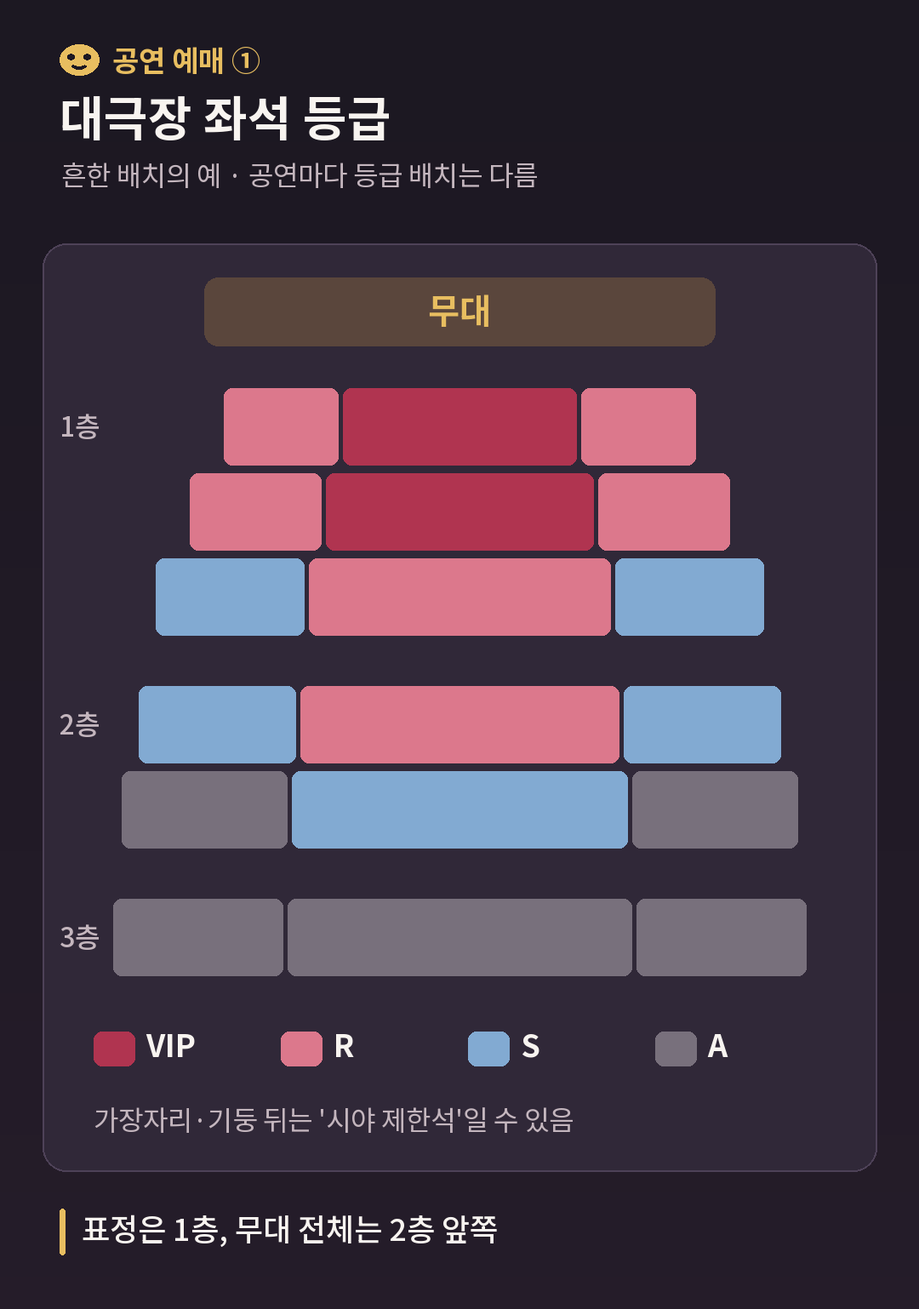
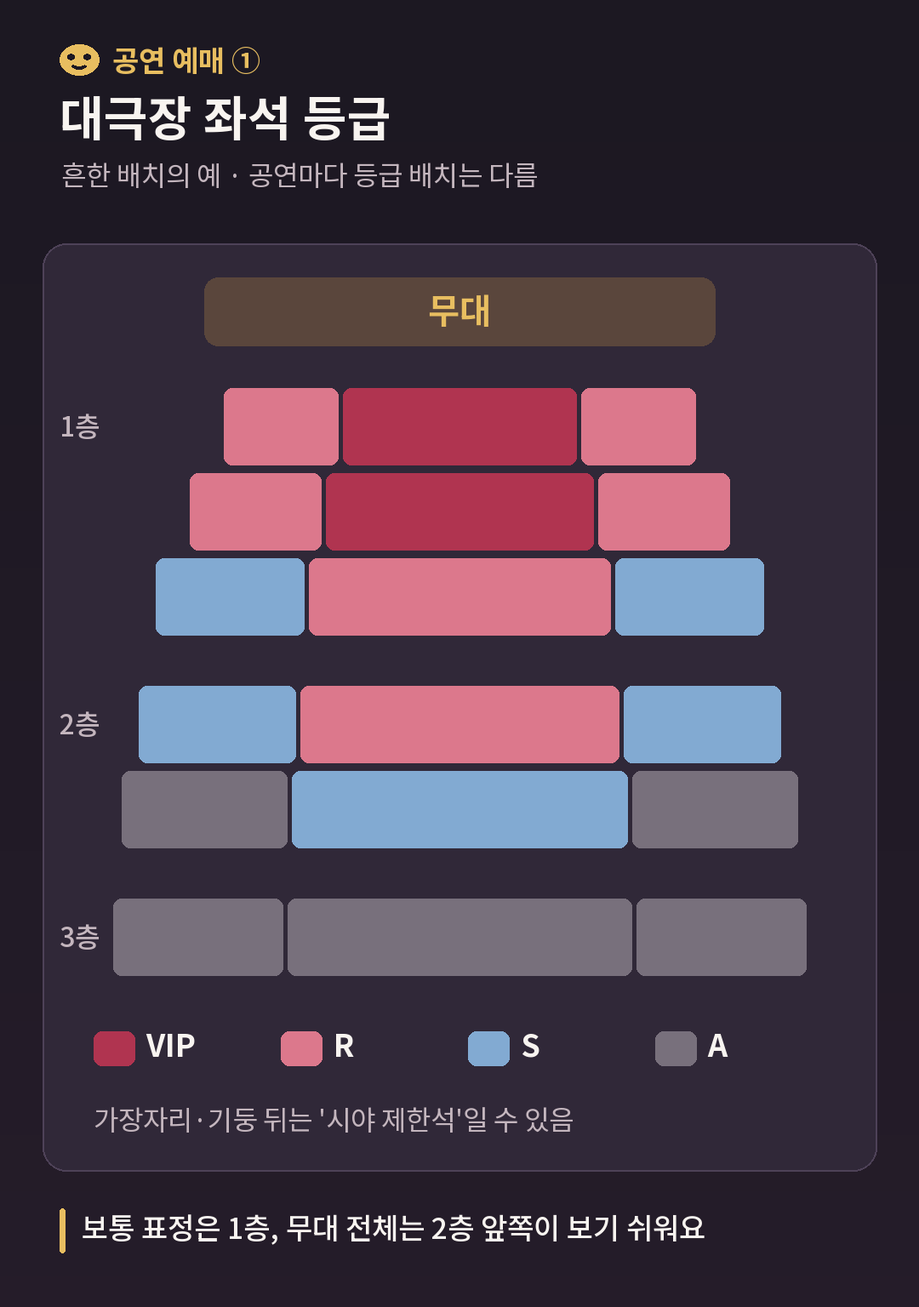
뮤지컬 좌석 글: 타이틀 적용·좌석 고르는 법 보강·검수 반영, 이미지 요청 글자 크기 규칙 기록
- 자리별 시야 단면도(03) 추가, 그림 번호 04~06으로 다시 매김
- 두 차례 외부 검수 반영(취소표 시점, 수수료 단서, 소득공제 조건, 공연법 정의, 좌석 평가 문장)
- 02·03 ChatGPT 인포그래픽 요청(글자 작게)
- ChatGPT 이미지 요청 글자는 작게(제목 44·이름표 30~32·설명 28px 안팎) 규칙 추가

diff --git a/문서/네이버-코딩가이드/20261126_뮤지컬-좌석-예매/index.html b/문서/네이버-코딩가이드/20261126_뮤지컬-좌석-예매/index.html
@@ -6,22 +6,26 @@
 글 제목: 연말 뮤지컬 좌석 고르는 법, 예매부터 취소 수수료까지
 태그: #뮤지컬예매 #뮤지컬좌석 #공연예매 #티켓팅 #취소표 #취소수수료 #연말공연 #뮤지컬 #문화비소득공제 #암표
 검색 설명: 연말 뮤지컬과 공연을 예매할 때 알아 둘 것을 정리했습니다. 대극장 좌석 등급(VIP·R·S·A)과 층별 차이, 선예매와 일반 예매, 취소표가 나오는 때, 관람일이 가까울수록 커지는 취소 수수료, 문화비 소득공제와 암표 처벌까지 담았습니다.
-글자 수: 본문 공백 포함 1,777자 / 공백 제외 1,363자
+글자 수: 본문 공백 포함 3,215자 / 공백 제외 2,465자
 계기: 겨울 대극장 대작 공연 기사(11.26)와 다음 공연 분야 검색어 상위(연말 콘서트·뮤지컬). 사용자가 추천 5개 중 5번을 고름.
 
 [이미지 순서]
 디자인: 어두운 공연장 그라데이션 바탕(#1c1822→#281e2c) · 흰 글자 · 와인(#b03450)·장미(#dc788c)·금빛 조명(#e8be60)·하늘(#82aad2) · 어두운 보라 카드, 머리에 금빛 가면 아이콘 + '공연 예매 ①~③', 아래 한 줄은 금빛 세로 띠 메모. 형식: 세로 좌석 배치 개념도, 가로 다섯 단계 카드, 가로 수수료 막대. 스크립트 scratchpad/tgs/musical.py.
-- 01-타이틀.png (ChatGPT, 1080×1080) — 표지
-- 02-대극장-좌석-등급.png (AI, 세로 1080×1538) — 층·위치에 따라 등급이 나뉘는 흔한 배치(개념도)
-- 03-예매가-열리는-순서.png (AI, 가로 1440×894) — 오픈 공지부터 취소표까지 다섯 단계
-- 04-취소-수수료.png (AI, 가로 1440×1182) — 관람일이 가까울수록 커지는 취소 수수료(한 예매처 예)
-- 05-함께-보면-좋은-글.png (AI 배너, 1600×234)
+- 01-타이틀.png (ChatGPT, 1080×1080) — 표지(글자 약 84%·세로 중심 약 44%라 95%로 줄이고 45px 내려 살짝 키운 흐린 같은 그림 위에 70px로 섞음 → 약 80%·중심 약 48%, 원본 scratchpad/backup/musical-01-original.png)
+- 02-대극장-좌석-등급.png (AI, 세로 1080×1536) — 층·위치에 따라 등급이 나뉘는 흔한 배치(개념도)
+- 03-자리별로-보이는-것.png (AI, 가로 1440×1482) — 옆 단면: 1층 앞(올려다봄)·가운데·뒤(2층 아래, 위쪽 가려짐)·2층 앞(난간) 시선
+- 04-예매가-열리는-순서.png (AI, 가로 1440×894) — 오픈 공지부터 취소표까지 다섯 단계
+- 05-취소-수수료.png (AI, 가로 1440×1222) — 관람일이 가까울수록 커지는 취소 수수료(한 예매처 예)
+- 06-함께-보면-좋은-글.png (AI 배너, 1600×234)
 
 [근거] (2026.11.26 확인)
 - 공연법(국가법령정보센터 현행 원문): 제4조의2 입장권등 부정구매(보안조치를 우회하는 등 공정한 구입 과정을 우회·방해해 재판매 목적으로 구매)·부정판매(판매자 동의 없이 상습 또는 영업으로 산 값보다 비싸게 판매·알선) 금지(전문개정 2026.2.27), 제41조 1년 이하 징역 또는 1천만 원 이하 벌금, 제37조의2 신고 포상금(예산 범위, 대통령령).
 - 취소 수수료: 예스24 티켓 공연 상품 페이지의 일반 취소 규정(예매 후 7일 이내 없음 / 예매 후 8일~관람일 10일 전 장당 4,000원(티켓 금액의 10% 이내) / 관람일 9~7일 전 10% / 6~3일 전 20% / 2일 전~취소 마감 30%, 예매 후 7일 이내라도 관람일 10일 이내면 해당 수수료, 예매수수료는 예매 당일 밤 12시 전 취소 때만 환불). '상품에 따라 다를 수 있다'는 단서도 원문에 있음 — 본문에 '한 예매처의 예'로 씀.
 - 문화비 소득공제: 조세특례제한법 제126조의2(앞선 카드 소득공제 글에서 원문 확인) — 총급여 7천만 원 이하, 도서·공연 등 문화비 공제율 30%. 상품마다 대상이 아닐 수 있음(예스24 상품 페이지에 '문화비 소득공제 제외 상품' 표기가 있는 예).
 - 겨울 대작 공연(오페라의 유령 40주년 등)은 11.26 기사 기준 '~다고 합니다'. 특정 공연장 좌석 수·등급 배치는 공연마다 달라 쓰지 않고, 좌석 등급의 일반적인 경향·취소표가 나오는 때·선예매는 일반 지식으로 '보통·알려져 있다'로 씀.
+- 외부 검수(11.26) 반영: 취소표 시점을 확정하지 않음(미입금 자동 취소 시점·좌석이 풀리는 시간은 예매처마다 다름, 관람 10일 전은 '수수료 구간이 바뀌는 때'), 그림 03 4·5단계 문구, 그림 04에 '장당 4,000원(티켓 금액의 10% 이내)' 단서와 취소 마감 시각 안내, 문화비 소득공제는 카드 등 사용액이 총급여 25% 초과·공제 대상 사업자·30%는 공제율이라는 조건 보완, 공연법 부정구매·부정판매 정의를 조문대로, 좌석 평가 문장 객관화, 선예매 대상은 '공연에 따라', 시야 제한석 범위 확인, 취소 마감 시각 문장 추가. 다르게 한 것: 마지막 수수료 구간은 검수안의 '관람 2~1일 전' 대신 예스24 원문 표현 '관람 2일 전 ~ 취소 마감(일시)'을 살려 '취소 마감 시각'으로 둠. 예스24의 요일별 취소 마감 시각(전날 17시 등)은 원문을 보지 못해 숫자 없이 '공연마다 다르니 확인'으로.
+- 사용자 요청(11.26)으로 '좌석 고르는 법'을 보강: h2 '어디에 앉을까? 자리마다 보이는 것'(1층 앞·가운데·뒤(2층 돌출부 아래)·2층 맨 앞줄 난간·양쪽 끝 블록), h2 '목적별로 고르면 쉽다'(목적별 자리 목록, 어린이 방석·오페라글라스), h3 '예매 전에 시야를 미리 보는 법'(좌석 배치도·같은 작품 시야 후기). 모두 일반적인 경향이라 '~수 있다·편이다·꼽힌다'로 씀. 새 AI 그림 03 자리별 단면도, 뒤 번호 04·05·06으로 다시 매김.
+- 두 번째 외부 검수(11.26) 반영: 1층 앞쪽 '가장 잘 보임' → '가까이에서 볼 수 있음, 너무 가까우면 전체를 보기 어려움', 피트는 '공연장에 따라 객석과 무대 사이에 놓이기도 함', 1층 가운데 '실패가 적다' 삭제, 통로 쪽은 '드나들기 편함'만(시야는 무대 가운데와의 각도로 비교), 아이와 함께는 '통로 쪽·앞사람에게 가리지 않는 자리', 그림 04의 4번 카드 제목이 넘쳐 '미입금 취소'로 줄임.
 - 함께 보면 좋은 글: 2026 서울윈터페스티벌(네이버 코딩가이드 · 여행·취미·문화 · 2026.11.26), 연말정산 미리보기 12월 18일 전에 볼 세 가지(네이버 코딩가이드 · 경제·투자 · 2026.11.24).
 -->
 
@@ -44,35 +48,78 @@
 
 <p style="font-size:16px;color:#e60000;font-weight:bold;">[[ 이미지: 대극장 좌석 등급 (02-대극장-좌석-등급.png) ]]</p>
 
-<p style="font-size:16px;">다만 가격이 곧 보기 좋은 자리는 아닙니다.<br>1층 맨 앞줄은 무대를 올려다봐야 해서 오히려 불편하다는 사람도 많습니다.</p>
-<p style="font-size:16px;">2층 앞쪽은 무대 전체 동선이 한눈에 들어와 군무가 많은 작품에서 좋다는 평이 있습니다.<br>배우 표정을 가까이 보고 싶다면 1층, 무대 그림 전체를 보고 싶다면 2층 앞쪽입니다.</p>
+<p style="font-size:16px;">다만 가격이 곧 보기 좋은 자리는 아닙니다.<br>1층 맨 앞줄은 무대와 가깝지만, 올려다보는 각도 때문에 불편할 수 있습니다.</p>
+<p style="font-size:16px;">2층 앞쪽은 무대 전체와 군무의 대형을 보기 편할 수 있습니다.<br>보통 배우 표정은 1층에서, 무대 그림 전체는 2층 앞쪽에서 보기 쉽습니다.</p>
 
 <p>&nbsp;</p>
 <h3 style="font-size:18px;margin:24px 0 8px;">♪ '시야 제한석'은 무엇일까?</h3>
-<p style="font-size:16px;">기둥이나 난간, 무대 장치 때문에 무대 일부가 가려지는 자리입니다.<br>값이 싼 대신 어떤 부분이 안 보이는지 예매 화면에 표시되는 경우가 많습니다.<br>안내 문구를 읽고 고르면 가성비 좋은 선택이 될 수 있습니다.</p>
+<p style="font-size:16px;">기둥이나 난간, 무대 장치 때문에 무대 일부가 가려지는 자리입니다.<br>값이 싼 대신 시야가 일부 가려집니다.</p>
+<p style="font-size:16px;">가려지는 범위와 위치는 공연장과 공연 안내에서 확인해야 합니다.<br>안내를 읽고 고르면 값에 비해 만족스러운 선택이 될 수 있습니다.</p>
+
+<p>&nbsp;</p>
+<hr style="border:none;border-top:1px solid #cfcfcf;margin:8px 0;">
+<h2 style="font-size:24px;margin:40px 0 12px;">어디에 앉을까? 자리마다 보이는 것</h2>
+<p style="font-size:16px;">같은 등급 안에서도 자리에 따라 보이는 모습이 꽤 다릅니다.<br>공연장 옆에서 잘라 본 단면으로 보면 차이가 잘 보입니다.</p>
+
+<p style="font-size:16px;color:#e60000;font-weight:bold;">[[ 이미지: 자리별로 보이는 것 (03-자리별로-보이는-것.png) ]]</p>
+<p>&nbsp;</p>
+<h3 style="font-size:18px;margin:24px 0 8px;">♪ 1층 앞쪽: 가깝지만 올려다본다</h3>
+<p style="font-size:16px;">배우의 표정과 의상을 가까이에서 볼 수 있는 자리입니다.<br>다만 무대와 너무 가까우면 시선이 위로 향하고, 무대 전체를 한눈에 보기 어려울 수 있습니다.</p>
+<p style="font-size:16px;">오케스트라 피트가 있는 공연장은 객석과 무대 사이에 연주 공간이 놓이기도 합니다.<br>그래서 맨 앞줄이라고 무대와 바로 맞닿아 있는 것은 아닙니다.</p>
+<p style="font-size:16px;">앞쪽은 객석 경사가 낮아 앞사람 머리가 걸리기도 합니다.</p>
+<p>&nbsp;</p>
+<h3 style="font-size:18px;margin:24px 0 8px;">♪ 1층 가운데: 무난한 선택</h3>
+<p style="font-size:16px;">1층 중간쯤 가운데 블록은 거리와 각도가 고른 편입니다.<br>처음 보는 작품이라면 무대와의 거리와 좌우 시야가 비교적 균형 잡힌 이 근처를 고려할 수 있습니다.</p>
+<p>&nbsp;</p>
+<h3 style="font-size:18px;margin:24px 0 8px;">♪ 1층 뒤쪽: 2층 아래인지 확인</h3>
+<p style="font-size:16px;">1층 뒷줄은 2층 객석이 머리 위로 튀어나와 있는 경우가 있습니다.<br>이 아래에 앉으면 무대 위쪽이 잘려 보이고 소리가 답답하게 느껴질 수 있습니다.</p>
+<p style="font-size:16px;">좌석 배치도에서 2층이 어디까지 덮는지 먼저 확인하세요.</p>
+<p>&nbsp;</p>
+<h3 style="font-size:18px;margin:24px 0 8px;">♪ 2층 맨 앞줄: 난간과 관람 예절</h3>
+<p style="font-size:16px;">2층 앞쪽은 무대 전체를 내려다보기 좋습니다.<br>다만 맨 앞줄은 난간이 시야 아래쪽을 가릴 수 있습니다.</p>
+<p style="font-size:16px;">몸을 앞으로 숙이면 뒷사람 시야를 가리게 됩니다.<br>등을 붙이고 앉아도 잘 보이는지 후기를 보고 고르세요.</p>
+<p>&nbsp;</p>
+<h3 style="font-size:18px;margin:24px 0 8px;">♪ 양쪽 끝 블록: 무대 반대편이 잘린다</h3>
+<p style="font-size:16px;">옆쪽 블록 끝자리는 무대 반대편 끝이 잘려 보일 수 있습니다.<br>같은 등급이라면 무대 가운데와의 각도를 비교해 고르세요. 통로 쪽은 드나들기 편하다는 장점이 있습니다.</p>
+<p>&nbsp;</p>
+<hr style="border:none;border-top:1px solid #cfcfcf;margin:8px 0;">
+<h2 style="font-size:24px;margin:40px 0 12px;">목적별로 고르면 쉽다</h2>
+<p style="font-size:16px;">무엇을 보고 싶은지 먼저 정하면 자리가 좁혀집니다.</p>
+<p style="font-size:16px;">• 배우 표정과 연기: 1층 앞쪽~가운데</p>
+<p style="font-size:16px;">• 군무와 무대 그림 전체: 2층 앞쪽 가운데</p>
+<p style="font-size:16px;">• 처음 보는 작품: 1층 가운데 블록</p>
+<p style="font-size:16px;">• 아이와 함께: 드나들기 편한 통로 쪽, 앞사람에게 가리지 않는 자리</p>
+<p style="font-size:16px;">• 예산을 아끼려면: 3층 가운데나 시야 제한석</p>
+<p>&nbsp;</p>
+<p style="font-size:16px;">아이와 갈 때는 어린이용 방석을 빌려주는지 공연장에 미리 물어보세요.<br>멀리 앉는다면 오페라글라스를 챙기는 사람도 많습니다.</p>
+<p>&nbsp;</p>
+<h3 style="font-size:18px;margin:24px 0 8px;">♪ 예매 전에 시야를 미리 보는 법</h3>
+<p style="font-size:16px;">예매처 좌석 배치도와 공연장 누리집의 좌석 안내를 먼저 봅니다.<br>같은 공연장의 좌석별 관람 후기(시야 사진)를 찾아보는 것도 도움이 됩니다.</p>
+<p style="font-size:16px;">같은 공연장이라도 작품마다 무대 장치와 등급 배치가 다릅니다.<br>후기는 가능하면 같은 작품, 같은 시즌의 것을 고르세요.</p>
 
 <p>&nbsp;</p>
 <hr style="border:none;border-top:1px solid #cfcfcf;margin:8px 0;">
 <h2 style="font-size:24px;margin:40px 0 12px;">예매는 어떤 순서로 열릴까?</h2>
 
-<p style="font-size:16px;color:#e60000;font-weight:bold;">[[ 이미지: 예매가 열리는 순서 (03-예매가-열리는-순서.png) ]]</p>
+<p style="font-size:16px;color:#e60000;font-weight:bold;">[[ 이미지: 예매가 열리는 순서 (04-예매가-열리는-순서.png) ]]</p>
 
-<p style="font-size:16px;">인기 공연은 보통 일반 예매 전에 '선예매'가 먼저 열립니다.<br>예매처 유료 회원이나 제휴 카드, 공연 팬클럽에 먼저 기회를 주는 방식입니다.</p>
-<p style="font-size:16px;">일반 예매는 회차를 나눠 여는 경우가 많습니다.<br>오픈 공지에 어느 날짜 공연이 열리는지 적혀 있으니 그날만 노리면 됩니다.</p>
+<p style="font-size:16px;">인기 공연은 보통 일반 예매 전에 '선예매'가 먼저 열립니다.<br>공연에 따라 예매처 유료 회원, 제휴 카드, 팬클럽 등 대상이 다릅니다.</p>
+<p style="font-size:16px;">일반 예매는 회차를 나눠 여는 경우가 많습니다.<br>오픈 공지에서 회차별 오픈 일정과 예매할 수 있는 좌석을 먼저 확인하세요.</p>
 
 <p>&nbsp;</p>
 <h3 style="font-size:18px;margin:24px 0 8px;">♪ 놓쳤다면 취소표를 노리자</h3>
-<p style="font-size:16px;">무통장 입금으로 예매한 사람이 기한 안에 돈을 넣지 않으면 그 좌석이 다시 풀립니다.<br>그래서 입금 마감 시각 바로 뒤에 취소표가 나온다고 알려져 있습니다.</p>
-<p style="font-size:16px;">관람일 10일 전, 취소 수수료가 커지기 전에 표를 내놓는 사람도 있습니다.<br>그 무렵 예매 화면을 한 번 더 확인해 보세요.</p>
+<p style="font-size:16px;">무통장 입금으로 예매한 사람이 기한 안에 돈을 넣지 않으면 예매가 자동 취소되고, 그 좌석이 다시 판매될 수 있습니다.<br>자동 취소 시점과 좌석이 풀리는 시간은 예매처마다 다르니 공지를 확인하세요.</p>
+<p style="font-size:16px;">관람일 10일 전은 취소 수수료 구간이 바뀌는 때입니다.<br>그 전에 표를 내놓는 사람도 있으니, 그 무렵 예매 화면을 한 번 더 확인해 보세요.</p>
 
 <p>&nbsp;</p>
 <hr style="border:none;border-top:1px solid #cfcfcf;margin:8px 0;">
 <h2 style="font-size:24px;margin:40px 0 12px;">취소하면 얼마를 떼일까?</h2>
 <p style="font-size:16px;">한 예매처의 일반 취소 규정을 예로 들면 다음과 같습니다.</p>
 
-<p style="font-size:16px;color:#e60000;font-weight:bold;">[[ 이미지: 취소 수수료 (04-취소-수수료.png) ]]</p>
+<p style="font-size:16px;color:#e60000;font-weight:bold;">[[ 이미지: 취소 수수료 (05-취소-수수료.png) ]]</p>
 
 <p style="font-size:16px;">예매 후 7일 안이라도 관람일이 10일 안으로 남았다면 수수료가 붙습니다.<br>예매할 때 낸 예매 수수료는 예매 당일 밤 12시 전에 취소해야 돌려받습니다.</p>
+<p style="font-size:16px;">수수료와 별개로 취소할 수 있는 마감 시각도 정해져 있습니다.<br>마감 시각은 예매처와 공연마다 다르니 공연 상세 페이지에서 확인하세요.</p>
 <p style="font-size:16px;">공연마다 따로 정한 규정이 있으면 그것이 먼저입니다.<br>결제 전에 상품 페이지의 취소 안내를 한 번 읽어 두세요.</p>
 
 <p>&nbsp;</p>
@@ -80,21 +127,22 @@
 <h2 style="font-size:24px;margin:40px 0 12px;">알아 두면 돈이 되는 두 가지</h2>
 
 <h3 style="font-size:18px;margin:24px 0 8px;">♪ 공연 티켓도 소득공제가 된다</h3>
-<p style="font-size:16px;">총급여 7천만 원 이하 직장인은 공연 티켓 값을 문화비 소득공제로 받을 수 있습니다.<br>공제율은 30%로, 신용카드(15%)보다 높습니다.</p>
-<p style="font-size:16px;">다만 모든 상품이 대상은 아닙니다.<br>상품 페이지에 '문화비 소득공제 제외'라고 적힌 경우도 있으니 확인하세요.</p>
+<p style="font-size:16px;">총급여 7천만 원 이하 근로자는 공연 티켓 값을 문화비 소득공제로 받을 수 있습니다.<br>공제 대상 사업자에게 산 공연 티켓은 사용 금액의 30%를 공제 대상으로 인정합니다.</p>
+<p style="font-size:16px;">다만 신용카드 등 사용액이 총급여의 25%를 넘어야 공제가 시작됩니다.<br>30%는 돌려받는 돈이 아니라 공제율이고, 실제 공제액은 다른 사용액과 한도에 따라 달라집니다.</p>
+<p style="font-size:16px;">모든 공연 상품이 대상은 아닙니다.<br>상품 페이지에 '문화비 소득공제 제외'라고 적힌 경우도 있으니 결제 전에 확인하세요.</p>
 
 <p>&nbsp;</p>
 <h3 style="font-size:18px;margin:24px 0 8px;">♪ 웃돈 붙은 표는 사지 않는다</h3>
-<p style="font-size:16px;">공연법은 매크로처럼 정상적인 구매 과정을 우회해 되팔 목적으로 표를 사는 것을 금지합니다.<br>산 값보다 비싸게 상습적으로 되파는 것도 금지합니다.</p>
+<p style="font-size:16px;">공연법은 보안조치를 기술적으로 우회하는 등 공정한 구매 과정을 방해해 되팔 목적으로 표를 사는 것을 금지합니다.<br>판매자 동의 없이 상습적·영업적으로 산 값보다 비싸게 되파는 것도 금지합니다.</p>
 <p style="font-size:16px;">어기면 1년 이하 징역이나 1천만 원 이하 벌금을 받을 수 있습니다.<br>웃돈 거래는 사기 피해로 이어지기도 하니, 공식 예매처와 취소표를 이용하세요.</p>
 
 <p>&nbsp;</p>
 <hr style="border:none;border-top:1px solid #cfcfcf;margin:8px 0;">
 <h2 style="font-size:24px;margin:40px 0 12px;">티켓 오픈 전날 밤에 해 둘 일</h2>
 <p style="font-size:16px;">예매처 로그인과 결제 수단을 미리 저장해 둡니다.<br>원하는 날짜를 두세 개, 등급을 두 개쯤 정해 두면 고르는 시간이 줄어듭니다.</p>
-<p style="font-size:16px;">놓치더라도 끝이 아닙니다.<br>입금 마감 뒤와 관람 10일 전, 두 번의 기회가 더 있습니다.</p>
+<p style="font-size:16px;">놓치더라도 끝이 아닙니다.<br>미입금 좌석이 풀릴 때와 관람일이 가까워질 때 취소표가 나올 수 있으니 판매 상황을 확인해 보세요.</p>
 
-<p style="font-size:16px;color:#e60000;font-weight:bold;">[[ 이미지: 함께 보면 좋은 글 (05-함께-보면-좋은-글.png) ]]</p>
+<p style="font-size:16px;color:#e60000;font-weight:bold;">[[ 이미지: 함께 보면 좋은 글 (06-함께-보면-좋은-글.png) ]]</p>
 
 <p style="font-size:16px;">2026 서울윈터페스티벌, 장소별로 언제 무엇을 할까? (네이버 코딩가이드 · 여행·취미·문화 · 2026.11.26 작성 · 링크 자리)</p>
 <p style="font-size:16px;">연말정산 미리보기, 12월 18일 전에 볼 세 가지 (네이버 코딩가이드 · 경제·투자 · 2026.11.24 작성 · 링크 자리)</p>

diff --git a/AGENTS.md b/AGENTS.md
@@ -60,6 +60,7 @@
 - **티스토리 블로그(코딩가이드·히스토리가이드·이코노미가이드) 글은 공백 포함 4,000자 이내로 쓴다**(사용자 지시, 2026-11-22 히스토리가이드 「여행 속 역사」 2편 로마부터). 네이버는 위의 3,000자 이하 기준 그대로다. 넘칠 것 같으면 장소·설명을 줄이거나 그림으로 옮기고, 그래도 안 되면 나누자고 먼저 권한다.
 - **자료는 해외·영어 자료까지 모두 찾아 쓰되, 한국어로 쓸 때는 독자가 한국 사람이라는 점을 생각해 한국 사람에게 필요한 정보로 쓴다**(사용자 지시, 2026-11-22, 모든 글). 해외 기준·연구는 국내 제도·국내 상황을 이해시키는 비교 재료로 쓰고, 결론·확인할 것·예시는 국내 기준(국내 표시 기준, 원화, 국내 매장·기관)으로 쓴다. 해외 매체 이름은 발행 메모에만 적는다.
 - **제목은 길지 않게 짓되 검색이 잘되고, 독자가 이해하기 쉽고 관심을 가질 수 있게 짓는다. 너무 짧아 내용을 알 수 없게 되지 않도록 전체를 감안한다**(사용자 지시, 2026-11-22, 모든 글). 핵심 검색어를 앞에 두고, 독자가 얻는 것(궁금증·답)을 뒤에 붙인다. 대략 20~30자 안팎을 기준으로 삼는다(AI 해석).
+- **ChatGPT에 이미지를 요청할 때 글자를 너무 크게 요청하지 않는다**(사용자 지시, 2026-11-26 뮤지컬 좌석 글 02·03 요청: '텍스트가 너무 크다'). 본문 인포그래픽·설명 그림은 글자를 그림의 보조로 작고 단정하게 요청하고, 요청서에 픽셀 크기와 '이보다 크게 하지 말 것'을 적는다. 기본값(가로 1080px 기준, 가로 1620px이면 같은 비율로): 제목 44px 안팎, 이름표·범례·번호 30~32px 안팎, 설명·아래 한 줄 28px 안팎. 굵은 글씨는 제목·이름에만. 글자를 줄이려고 설명을 빼지 않는다(AI 버전에 있던 설명은 빠짐없이 옮긴다). 타이틀(01)은 썸네일에서 읽혀야 하는 기존 타이틀 규칙(2줄, 가로·세로 80% 이하)을 따르되 '아주 크게' 같은 말은 쓰지 않는다. AI가 직접 그리는 도식의 최소 글자 기준(36px 등)과는 따로 본다.
 - **외부 검수 결과는 타당하다고 판단될 때만 수정·추가한다. 필요하면 이미지도 수정하거나 추가한다**(사용자 지시, 2026-11-25 국민연금 수령 나이 글부터, 모든 글). 항목마다 법령·공식 원문·계산으로 확인하고, 맞지 않거나 확인되지 않는 항목은 반영하지 않고 이유를 보고한다. 본문을 고쳐 그림 문구·숫자가 어긋나면 그림도 고치고, 검수가 권한 추가 내용이 그림으로 더 잘 보이면 그림을 더한다. 보고에는 항목별 반영 여부와 그림 변경 여부를 적는다.
 - **ChatGPT가 작성한 글을 검수해 달라는 요청을 받으면 원문 파일이나 본문을 직접 수정하지 않는다.** 검수 결과만 사용자에게 보고하고, 수정이 필요하면 위치·문제·권장 수정 방향을 알려 준다. 사용자가 별도로 수정해 달라고 요청한 경우에만 직접 수정한다. (사용자 요청, 2026-11-16)
 - **글을 검수할 때 이미지의 내용은 확인해도 되지만, 아직 파일이 없다는 이유만으로 지적하지 않는다.** 이미지 제작이 진행 중일 수 있으므로 파일 존재 여부는 검수 항목에서 제외한다. (사용자 요청, 2026-11-18)
@@ -265,7 +266,9 @@
 ## 진행 상황 (2026-11-26 기준)
 - 2026-11-26: `문서/네이버-코딩가이드/20261126_뮤지컬-좌석-예매/index.html` 작성("연말 뮤지컬 좌석 고르는 법, 예매부터 취소 수수료까지", 카테고리 여행·취미·문화). 추천 5개 중 5번.
   - 근거: 공연법 현행 원문(국가법령정보센터, 제4조의2 부정구매·부정판매 금지 2026.2.27 전문개정, 제41조 1년 이하 징역·1천만 원 이하 벌금, 제37조의2 신고 포상금), 예스24 공연 상품 페이지의 일반 취소 규정(한 예매처 예로 밝힘), 조특법 제126조의2 문화비 공제(앞선 글에서 확인). 좌석 등급 배치·취소표 시점·선예매는 일반적인 경향이라 '보통·많다·알려져 있다'로 쓰고 특정 공연장 좌석 수는 쓰지 않음.
-  - 이미지 5장: AI 02 대극장 좌석 등급(세로 개념도)·03 예매가 열리는 순서(가로 다섯 단계)·04 취소 수수료(가로 막대)·05 이 글 배너(와인 원 안 금빛 가면) — 어두운 공연장 바탕·와인·장미·금빛·하늘, 머리에 가면 아이콘 + '공연 예매 ①~③', 스크립트 scratchpad/tgs/musical.py. h3 기호 ♪, '한 줄로 말하면'만 와인. 링크는 서울윈터페스티벌(네이버 · 여행·취미·문화 · 11.26)·연말정산 미리보기(네이버 · 경제·투자 · 11.24). ChatGPT 01 타이틀('연말 뮤지컬 예매 / 좌석 고르는 법') 요청 중.
+  - 이미지 5장: AI 02 대극장 좌석 등급(세로 개념도)·03 예매가 열리는 순서(가로 다섯 단계)·04 취소 수수료(가로 막대)·05 이 글 배너(와인 원 안 금빛 가면) — 어두운 공연장 바탕·와인·장미·금빛·하늘, 머리에 가면 아이콘 + '공연 예매 ①~③', 스크립트 scratchpad/tgs/musical.py. h3 기호 ♪, '한 줄로 말하면'만 와인. 링크는 서울윈터페스티벌(네이버 · 여행·취미·문화 · 11.26)·연말정산 미리보기(네이버 · 경제·투자 · 11.24). ChatGPT 01 타이틀('연말 뮤지컬 예매 / 좌석 고르는 법') 적용(붉은 막 무대·벨벳 객석·좌석 격자 휴대폰·빈 종이 티켓, 글자 정확, 로고·글자 없음, 글자 약 84%·세로 중심 약 44%라 95%로 줄이고 45px 내려 흐린 같은 그림 위에 섞음 → 약 80%·48%, 원본 scratchpad/backup/musical-01-original.png). 이미지 5장 완료, 대기 중인 요청 없음.
+  - 같은 날 외부 검수 반영(공백 포함 2,040자): 취소표 시점 단정 삭제, 수수료 4,000원 '티켓 금액의 10% 이내'·취소 마감 시각 안내, 문화비 소득공제 25% 초과·대상 사업자·공제율 조건, 공연법 정의를 조문대로, 좌석 평가 문장 객관화. 그림 02·03·04 문구 고침. 마지막 수수료 구간은 예스24 원문 표현('관람 2일 전 ~ 취소 마감')을 살림. **소득공제를 쓸 때는 25% 문턱·대상 사업자·'공제율이지 환급률이 아님'을 함께 쓴다.**
+  - 같은 날 사용자 지적('제목이 좌석 고르는 법인데 내용이 적다')으로 좌석 부분 보강(공백 포함 3,113자): 자리별(1층 앞·가운데·뒤 2층 아래·2층 맨 앞 난간·양쪽 끝) 보이는 것, 목적별 고르기, 예매 전 시야 확인법. 새 AI 그림 03 옆 단면 시선도, 뒤 번호 04~06. **제목에 내세운 내용(예: 좌석 고르는 법)은 본문에서 가장 큰 비중으로 다룬다.** 같은 날 사용자 요청으로 02 대극장 좌석 등급(세로 4:5 1080×1350)·03 자리별로 보이는 것(가로 3:2 1620×1080)을 ChatGPT 3D 인포그래픽으로 요청. AI 버전 백업 scratchpad/backup/musical-02-ai.png·musical-03-ai.png, 받기 전까지 AI 버전이 자리를 지킴.
 - 2026-11-26: `문서/네이버-코딩가이드/20261126_전국-크리스마스마켓/index.html` 작성("전국 크리스마스 마켓 모음, 12월 주말 어디로 갈까?", 카테고리 여행·취미·문화, 공백 포함 2,330자). 사용자가 '이벤트·축제' 제안 중 3번 주제를 골라 요청.
   - 근거: 서브에이전트로 11.19~26 기사(다음 뉴스)를 모아 마켓별로 확인 수준을 나누고, 부산은 예스24 판매 페이지 원문으로 가격·시간대를 직접 확인, 광화문은 서울윈터페스티벌 누리집·서울시 기사. 기사 1건뿐인 곳(인천·칠곡)과 기사로만 확인한 곳은 '~다고 합니다'로, 확인 못 한 입장료·운영 시간은 쓰지 않음(롯데 패스트패스 가격, 뚝섬 시간). 2026 일정 기사가 없는 성북·이미 끝난 오산·박람회 성격의 대구·경주 페어는 뺌. 부산 운영 요일(월~수 휴무 여부)은 공식 문구가 없어 '예매 화면 날짜로 확인'. **여러 지역 행사 모음 글은 행사마다 확인 수준(공식/여러 기사/기사 1건)을 메모에 남기고 본문 어미를 그에 맞춘다. 주말별 표는 요일을 직접 계산해 '이틀 모두/하루만/닫힘'으로 나눈다.**
   - 이미지 5장: AI 02 지역별 기간(가로 간트, 서울 빨강·영남 초록·인천·제주 금빛)·03 주말별로 갈 수 있는 곳(세로 점 표, 24·25일 열 강조)·04 입장 방식(가로 세 칸)·05 이 글 배너(빨간 원 안 트리) — 크림 바탕·빨강·초록·금빛, 머리에 트리 아이콘 + '크리스마스 마켓 ①~③', 스크립트 scratchpad/tgs/xmas.py. h3 기호 ☆, '한 줄로 말하면'만 빨강. 링크는 서울윈터페스티벌(네이버 · 여행·취미·문화 · 11.26)·성심당(네이버 · 여행·취미·문화 · 11.25). ChatGPT 01 타이틀('전국 크리스마스 마켓 / 12월 주말 어디로?') 적용(해 질 녘 마켓 노점·트리·뱅쇼 머그·진저브레드, 글자 정확, 로고·간판 없음, 첫 줄 약 88%라 94%로 줄이고 살짝 키운 흐린 같은 그림 위에 70px로 섞음 → 약 83%, 원본 scratchpad/backup/xmas-01-original.png). 대기 중인 이미지 요청 없음.
@@ -588,7 +591,7 @@
   - 근거: 대교협 2027 기본사항(11/22 원문 확인)·6회 제한(11/20 어디가)·충원율 정의(11/22). 사용자 지시대로 특정 대학·학과 숫자 없이 원리만, 그림의 대학·이름·숫자는 모두 가정.
   - 이미지 5장: AI 02 연쇄 이동(가~라 대학 세로 흐름)·03 같은 10번 다른 무게(모집 5명 vs 50명 점 그림)·04 속도를 가르는 것(세 질문 양쪽 비교) — 따뜻한 미색 바탕·먹색·청록/코랄, 스크립트 scratchpad/zan/yebi3.py. 05 배너(남색). ChatGPT 01 타이틀('예비 번호 / 왜 안 움직일까?') 요청 중.
   - 같은 날 외부 검수 여덟 가지 반영(공백 포함 1,922자): '6번' → '최대 6회'·산업대·전문대 등 제외, 빈자리는 복수 합격뿐 아니라 최초 합격자의 등록 포기·미등록에서도 생김, '위쪽 대학' 대신 '더 선호하는 다른 대학에 함께 합격할 가능성', 예비 10번 조건을 계산 문장에 다시 밝힘, 모집 인원이 많다고 충원율이 꼭 높지는 않음, 전년도 비교는 모집 인원·전형 변화 확인, 마지막 단락은 '예비 10번 = 앞의 1~9번 먼저 합격, 빈자리 10개 필요'로. 그림 04 질문도 맞춤. **예비 번호 글 기준**: 예비 번호는 '대기 순서'이고 필요한 빈자리 수와 구분해 쓴다. 모집 인원 같은 한 요인으로 속도를 단정하지 않는다.
-  - 같은 날 사용자 요청으로 04를 ChatGPT 인포그래픽으로 다시 요청('글자 크기가 너무 크지 않게' — 요청서에 제목 52~56px·질문 36~40px 같은 크기 범위를 적음). AI 버전 백업 scratchpad/backup/yebi3-04-ai.png, 받기 전까지 AI 버전이 자리를 지킴.
+  - 같은 날 사용자 요청으로 04를 ChatGPT 인포그래픽으로 다시 요청('글자 크기가 너무 크지 않게' — 요청서에 제목 52~56px·질문 36~40px 같은 크기 범위를 적음). AI 버전 백업 scratchpad/backup/yebi3-04-ai.png, 받기 전까지 AI 버전이 자리를 지킴. 같은 날 두 번째 외부 검수 반영(공백 포함 3,215자): 좌석 평가 문장 다섯 곳을 단정하지 않게, 그림 04 4번 카드 제목 넘침 수정. **좌석·시야 같은 경험 정보는 '가장·실패가 적다·더 좋다' 대신 조건과 장단점으로 쓴다.** 같은 날 사용자 지적('02 요청 글자 크기가 너무 크다')으로 02 요청서의 글자 크기를 제목 44·이름표·범례 30·아래 줄 28px 안팎으로 줄이고 '이보다 크게 하지 말 것'을 적음. **ChatGPT 인포그래픽은 글자를 그림의 보조로 작게 요청한다(직접 그리는 도식의 36px 기준과 따로 본다).** 이어서 03 요청서의 제목도 44px 안팎으로 줄임(사용자 지적: 타이틀 글자가 너무 큼). 이어서 사용자 지적('03 설명이 이전 이미지보다 적다')으로 AI 버전의 번호별 설명(자리 이름 + 한 줄 설명 네 개)과 맨 아래 한 줄을 요청서에 되살리고, 글자는 제목 44·이름 32·설명 28px 안팎으로 줄임. **AI 도식을 ChatGPT로 다시 요청할 때는 AI 버전에 있던 설명을 빠짐없이 옮긴다(글자를 줄이려고 설명을 빼지 않는다).**
   - ChatGPT 이미지 2장 적용: 01 타이틀('예비 번호 / 왜 안 움직일까?', 크림 책상 위 도미노처럼 줄지은 빈 원판, 글자 정확, 둘째 줄 약 82%, 크기만 맞춤)·04(넘어가는 원판·문으로 나가는 뒷모습 vs 꽉 찬 의자, 글자 정확, 글자 크기 적당, 1080×1350). 원본 scratchpad/backup/yebi3-01·04-original.png. 이미지 5장 완료, 대기 중인 요청 없음. 남은 일은 사용자의 네이버 발행(링크 줄 교체)뿐이다.
   - 같은 날 사용자 요청으로 AI 그림 02 '6곳 지원, 등록은 1곳'(가~바 지원 → 합격 3·불합격 2·예비 1 → 등록 1·빈자리 2)을 '왜 움직일까' 단락에 넣고, 뒤 번호를 03 연쇄 이동·04 같은 10번·05 속도를 가르는 것·06 배너로 다시 매김. 스크립트 scratchpad/zan/yebi3b.py. 이미지 6장 완료, 대기 중인 요청 없음.
 - 2026-11-23: `문서/네이버-코딩가이드/20261123_18개/20261123_개인정보-유출-대처/index.html` 작성("개인정보 유출 문자 받았다면? 2차 피해 막는 순서", 카테고리 컴퓨터·IT, 공백 포함 1,493자). 다음 실시간 트렌드 '한전 on'(11/22 한전ON·전자조달시스템 152만여 명 유출)을 계기로 고른 1번. 본문은 특정 사고에 묶지 않고 '유출 알림을 받았을 때 할 일' 순서로 씀(계기는 발행 메모에만).

diff --git a/이미지요청-글.md b/이미지요청-글.md
@@ -17,17 +17,50 @@
   - **테두리(액자·프레임)는 넣지 마세요.**
   - **글자는 요청에 적힌 그대로**: 틀린 글자·빠진 글자·다른 글자가 없게 해 주세요.
 - 가운데가 너무 비지 않게 채워 주세요.
+- **본문 인포그래픽의 글자는 너무 크지 않게**: 1080px 기준 제목 44px·이름표 30~32px·설명 28px 안팎이 기본이며, 각 항목에 적힌 크기보다 크게 하지 마세요.
 
 ## [네이버] 연말 뮤지컬 좌석 고르는 법, 예매부터 취소 수수료까지 — 문서/네이버-코딩가이드/20261126_뮤지컬-좌석-예매
 
-### 01-타이틀.png (타이틀, 1:1, 1080×1080)
-- 종류: 실사풍 공연장 장면(사진처럼 자연스럽게). 독자는 성인 — 내용은 쉽게, 표현은 세련되게. 귀여운 캐릭터·말풍선·반짝이 스티커·장난감 같은 3D·굵은 테두리 만화 글씨는 쓰지 않음.
-- 장면: 공연 시작 직전의 대극장. 붉은 벨벳 좌석이 층층이 이어지고, 앞쪽 객석 팔걸이 위에 휴대폰(화면에는 좌석 선택 화면처럼 보이는 색 네모 격자만, 글자 없음)과 종이 티켓 한 장. 멀리 붉은 막이 내려진 무대와 금빛 조명. 사람은 없거나 아주 작은 뒷모습만.
-- 색: 짙은 와인·벨벳 빨강·금빛 조명.
-- 글자(적힌 그대로, 2줄):
-  - 1줄: 연말 뮤지컬 예매
-  - 2줄: 좌석 고르는 법
-- 글자 규칙(1080×1080 기준 픽셀): 글자(테두리·그림자 포함)의 왼쪽 끝은 108px보다 안쪽, 오른쪽 끝은 972px보다 안쪽(한 줄 864px 이하), 위쪽 끝은 108px보다 아래, 아래쪽 끝은 972px보다 위. 글자 덩어리 전체의 위아래 중심은 540px 근처(510~570px), 좌우도 정가운데. 글자를 위·아래로 몰고 그림을 반대쪽에 두는 배치 금지. 그림은 글자 뒤에 크게, 글자가 그림 일부를 가려도 됨. 글자를 피하려고 그림을 작게 줄이지 말 것.
-- 글자 모양: 굵은 고딕, 흰색(1줄)과 금빛(2줄), 또렷한 그림자. 목록 썸네일(폭 약 200px)에서도 읽히는 크기. 작은 글씨·띠·라벨·부제 금지.
-- 금지: 테두리·액자 없음. 실제 공연 포스터·작품 로고·예매처 로고·공연장 이름을 그리지 않음. 요청한 글자 말고 다른 글자(영어 포함, 티켓 위 글자 포함)는 넣지 않음.
+### 02-대극장-좌석-등급.png (설명 인포그래픽, 세로 4:5, 1080×1350)
+- 종류: 깔끔한 3D 인포그래픽(공연장을 위에서 비스듬히 내려다본 미니어처 모형 느낌). 독자는 성인 — 내용은 쉽게, 표현은 세련되게. 귀여운 캐릭터·손·말풍선·반짝이·장난감 같은 3D·굵은 테두리 만화 글씨는 쓰지 않음.
+- 장면: 위쪽에 붉은 막이 내려진 무대. 그 앞으로 1층 객석이 부채꼴로 펼쳐지고, 뒤쪽 위로 2층, 그 위로 3층 객석이 층층이 올라감. 좌석 덩어리를 등급별 색으로 칠함:
+  - 1층 가운데 앞~중간: VIP(짙은 와인색)
+  - 1층 가운데 뒤쪽과 1층 양옆: R(장미색)
+  - 1층 맨 뒤 양옆과 2층 가운데 앞쪽: S(하늘색)
+  - 2층 뒤쪽·양옆과 3층 전체: A(회보라색)
+- 가장자리 기둥 옆 좌석 몇 개에 작은 점선 표시(시야 제한석 느낌, 글자 없이).
+- 색: 어두운 공연장 바탕(짙은 자주·먹색), 금빛 조명, 위 등급 색 네 가지.
+- 글자(적힌 그대로만 넣기):
+  - 맨 위 제목: 대극장 좌석 등급
+  - 층 이름표: 1층 / 2층 / 3층
+  - 무대 위: 무대
+  - 아래 범례: VIP · R · S · A (각각 색 네모 옆에)
+  - 맨 아래 한 줄: 흔한 배치의 예 · 공연마다 다름
+- 글자 크기(1080×1350 기준, 이보다 크게 하지 말 것): 제목 44px 안팎, 층 이름표·범례 30px 안팎, 맨 아래 한 줄 28px 안팎. 글자는 그림의 보조 역할로 작고 단정하게, 좌석 모형이 화면의 주인공이 되게. 단정한 굵은 고딕(제목만 굵게, 나머지는 보통 굵기), 흰색·금빛.
+- 금지: 실제 공연장(특정 극장) 모양을 그대로 따라 그리지 않음. 공연 포스터·로고·좌석 번호·영어 글자 없음. 사람은 없음. 테두리·액자 없음. 요청한 글자 말고 다른 글자는 넣지 않음.
+
+### 03-자리별로-보이는-것.png (설명 인포그래픽, 가로 3:2, 1620×1080)
+- 종류: 공연장을 옆에서 잘라 본 단면도 스타일의 깔끔한 3D 인포그래픽. 독자는 성인 — 내용은 쉽게, 표현은 세련되게. 귀여운 캐릭터·손·말풍선·반짝이·장난감 같은 3D·굵은 테두리 만화 글씨는 쓰지 않음.
+- 구성(왼쪽에서 오른쪽으로):
+  - 왼쪽 끝: 무대(붉은 막, 무대 바닥). 무대 바로 앞에 낮게 파인 오케스트라 피트.
+  - 가운데~오른쪽: 뒤로 갈수록 조금씩 높아지는 1층 객석 경사.
+  - 오른쪽 위: 1층 뒤쪽 위로 튀어나온 2층 객석(돌출부). 2층 맨 앞에 난간.
+  - 관객 네 명을 단순한 실루엣(얼굴 없음)으로 앉히고, 각자 눈에서 무대 쪽으로 옅은 빛줄기(시선)를 그림:
+    - ① 1층 맨 앞: 무대를 올려다보는 가파른 시선
+    - ② 1층 가운데: 무대 위아래가 고르게 다 보이는 시선
+    - ③ 1층 맨 뒤(2층 돌출부 바로 아래): 위쪽 시선이 2층 바닥에 막힘(막힌 지점에 작은 X)
+    - ④ 2층 맨 앞: 무대 전체를 내려다보는 시선, 앞의 난간이 시야 아래쪽에 걸림
+- 각 시선 색: ① 장미색, ② 연두색, ③ 하늘색, ④ 금빛.
+- 글자(적힌 그대로만 넣기):
+  - 맨 위 제목: 자리별로 보이는 것
+  - 그림 속 이름표: 무대 / 피트 / 1층 / 2층
+  - 그림 아래(또는 오른쪽)에 번호별 설명 네 개. 번호와 자리 이름은 굵게(번호와 같은 색), 그 아래 한 줄 설명은 보통 굵기(연한 회색·흰색):
+    - ① 1층 앞쪽 — 표정은 가깝지만 올려다봄
+    - ② 1층 가운데 — 거리와 각도가 고른 편
+    - ③ 1층 뒤쪽(2층 아래) — 무대 위쪽이 잘려 보일 수 있음
+    - ④ 2층 앞쪽 — 전체가 보이지만 맨 앞줄은 난간
+  - 맨 아래 한 줄: 좌석 배치도에서 2층이 어디까지 덮는지 확인하세요
+- 글자 크기(1620×1080 기준, 이보다 크게 하지 말 것): 맨 위 제목 44px 안팎, 번호·자리 이름 32px 안팎, 한 줄 설명과 맨 아래 한 줄 28px 안팎. 설명이 많아도 그림(단면)이 화면의 주인공이 되게 글자는 작고 단정하게. 단정한 고딕, 흰색과 위 색.
+- 색: 어두운 공연장 바탕(짙은 자주·먹색), 금빛 조명.
+- 금지: 실제 공연장 모양을 그대로 따라 그리지 않음. 로고·좌석 번호·영어 글자 없음. 사람 얼굴 없음(실루엣만). 테두리·액자 없음. 요청한 글자 말고 다른 글자는 넣지 않음.
 

diff --git a/작성히스토리.md b/작성히스토리.md
@@ -1709,7 +1709,7 @@
 
 #### 2026.11.26 · 연말 뮤지컬 좌석 고르는 법, 예매부터 취소 수수료까지
 - 분류: 여행·취미·문화
-- 요약: 대극장 VIP·R·S·A 흔한 배치와 '비싼 자리 = 잘 보이는 자리'가 아닌 이유(1층 앞줄, 2층 앞쪽), 시야 제한석, 선예매·일반 예매, 무통장 입금 마감 뒤·관람 10일 전 취소표, 취소 수수료(예스24 일반 규정 예: 7일 이내 없음~관람 2일 전 30%, 예매 수수료는 당일 자정 전만 환불), 문화비 소득공제(총급여 7천만 원 이하 30%, 제외 상품 있음), 공연법 제4조의2 부정구매·부정판매 금지(1년 이하 징역·1천만 원 이하 벌금)
+- 요약: 대극장 VIP·R·S·A 흔한 배치, 자리별로 보이는 것(1층 앞·가운데·뒤 2층 아래·2층 맨 앞 난간·양쪽 끝)과 목적별 좌석 고르기·시야 확인법, '비싼 자리 = 잘 보이는 자리'가 아닌 이유(1층 앞줄, 2층 앞쪽), 시야 제한석, 선예매·일반 예매, 무통장 입금 마감 뒤·관람 10일 전 취소표, 취소 수수료(예스24 일반 규정 예: 7일 이내 없음~관람 2일 전 30%, 예매 수수료는 당일 자정 전만 환불), 문화비 소득공제(총급여 7천만 원 이하 30%, 제외 상품 있음), 공연법 제4조의2 부정구매·부정판매 금지(1년 이하 징역·1천만 원 이하 벌금)
 - 키워드: 뮤지컬 예매, 뮤지컬 좌석, 티켓팅, 취소표, 취소 수수료, 문화비 소득공제, 암표
 - 검색 설명(발행 메모): 연말 뮤지컬과 공연을 예매할 때 알아 둘 것을 정리했습니다. 대극장 좌석 등급(VIP·R·S·A)과 층별 차이, 선예매와 일반 예매, 취소표가 나오는 때, 관람일이 가까울수록 커지는 취소 수수료, 문화비 소득공제와 암표 처벌까지 담았습니다.
 - 태그: #뮤지컬예매 #뮤지컬좌석 #공연예매 #티켓팅 #취소표 #취소수수료 #연말공연 #뮤지컬 #문화비소득공제 #암표
